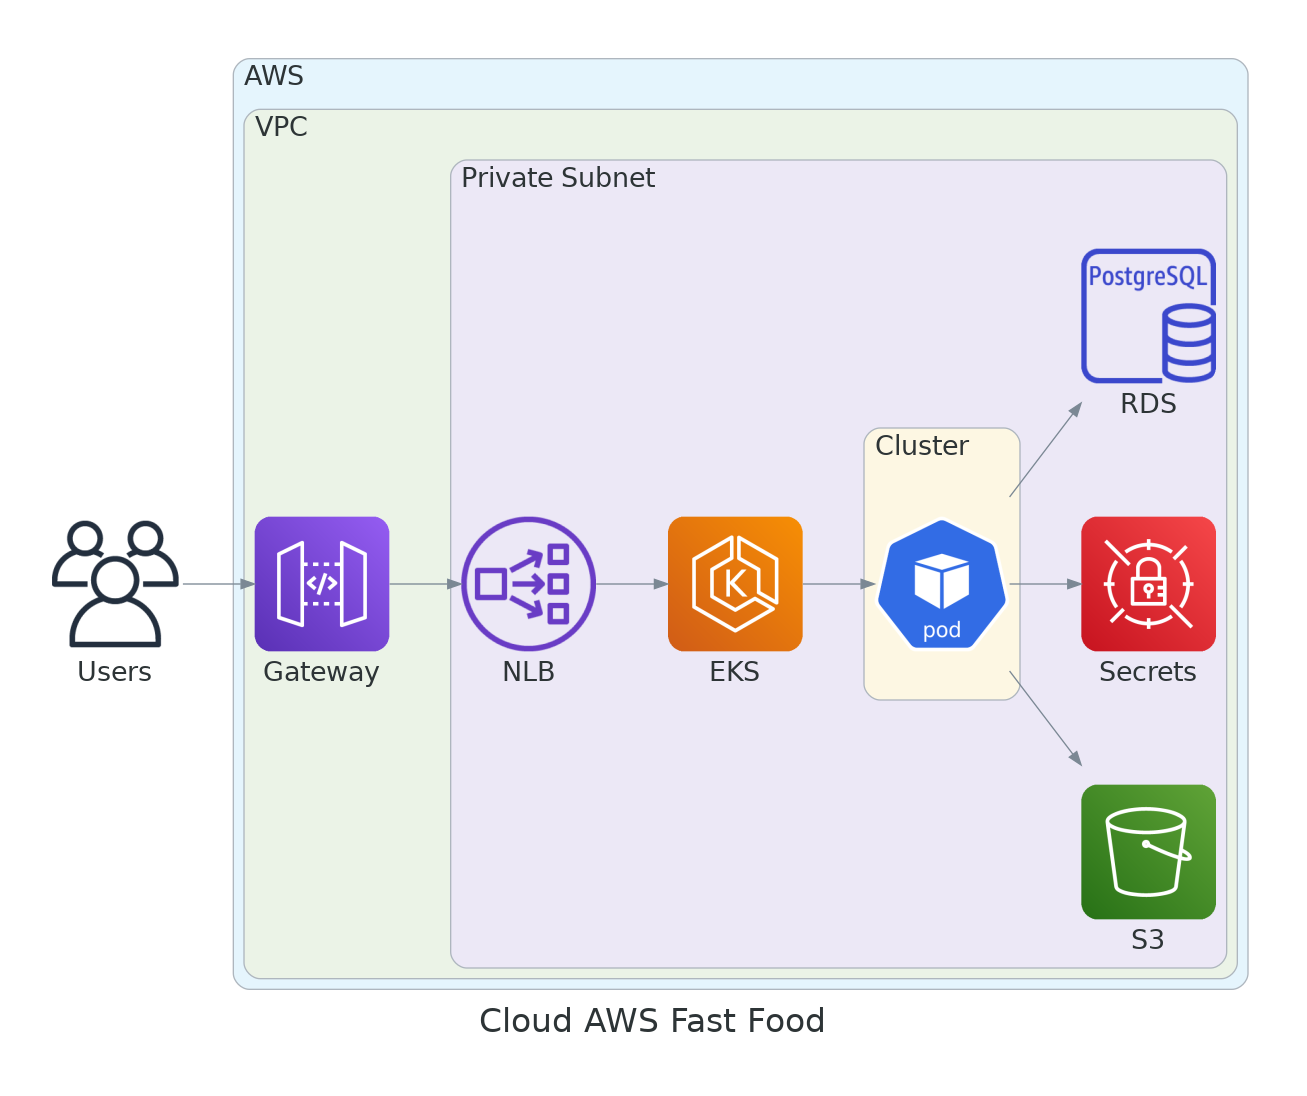
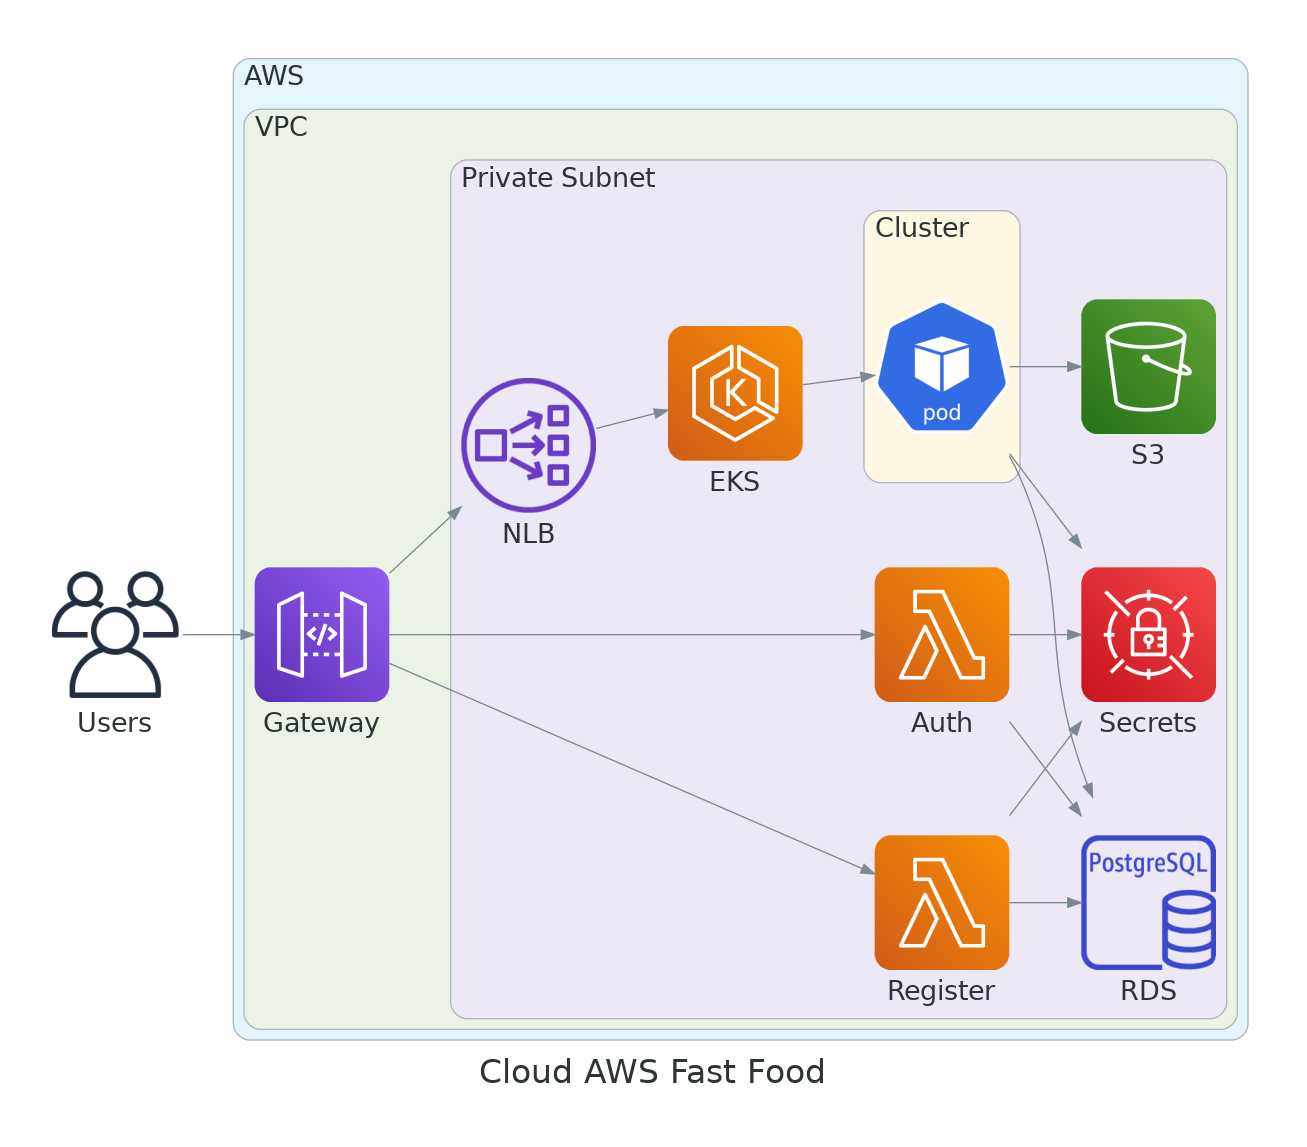
docs: :memo: update cloud diagram

diff --git a/docs/cloud_aws_fast_food.py b/docs/cloud_aws_fast_food.py
@@ -1,5 +1,5 @@
 from diagrams import Cluster, Diagram
-from diagrams.aws.compute import EKS
+from diagrams.aws.compute import EKS, Lambda
 from diagrams.aws.storage import S3
 from diagrams.aws.security import SecretsManager
 from diagrams.aws.management import SystemsManagerParameterStore as ParameterStore
@@ -46,12 +46,23 @@ with Diagram("Cloud AWS Fast Food", show=False, graph_attr=diagram_attr):
             users >> api_gateway
 
             with Cluster("Private Subnet", graph_attr=cluster_attr):
+                secrets_manager = SecretsManager("Secrets", **item_attr)
+                rds = RDS("RDS", **item_attr)
+
+                lambda_register = Lambda("Register", **item_attr)
+                lambda_register >> secrets_manager
+                lambda_register >> rds
+                api_gateway >> lambda_register
+
+                lambda_auth = Lambda("Auth", **item_attr)
+                lambda_auth >> secrets_manager
+                lambda_auth >> rds
+                api_gateway >> lambda_auth
+                
                 nlb = NLB("NLB", **item_attr)
                 api_gateway >> nlb
 
                 s3 = S3("S3", **item_attr)
-                secrets_manager = SecretsManager("Secrets", **item_attr)
-                rds = RDS("RDS", **item_attr)
 
                 service = EKS("EKS", **item_attr)
 
